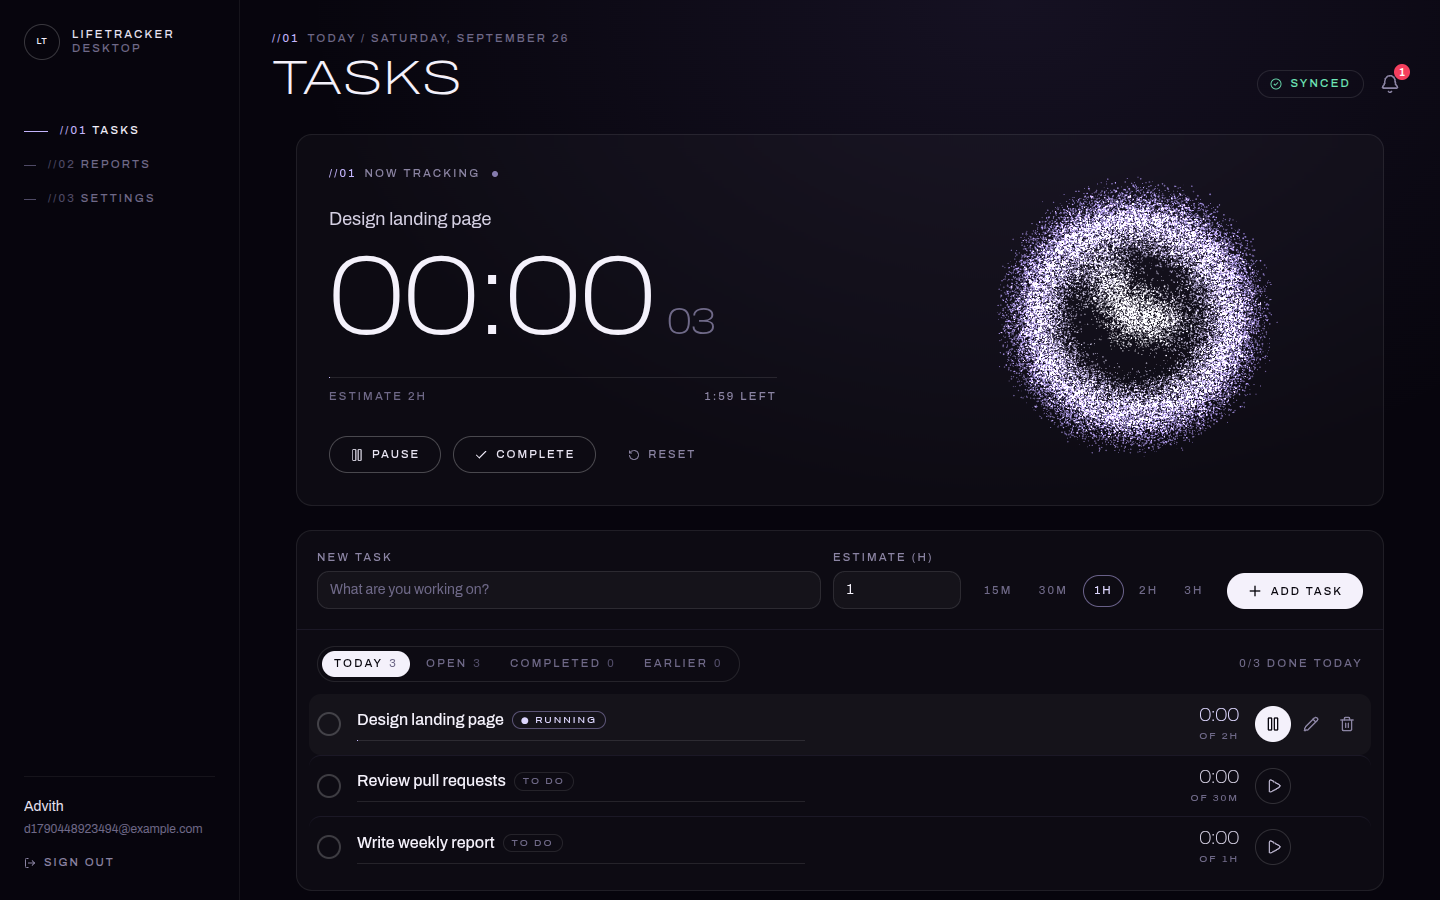
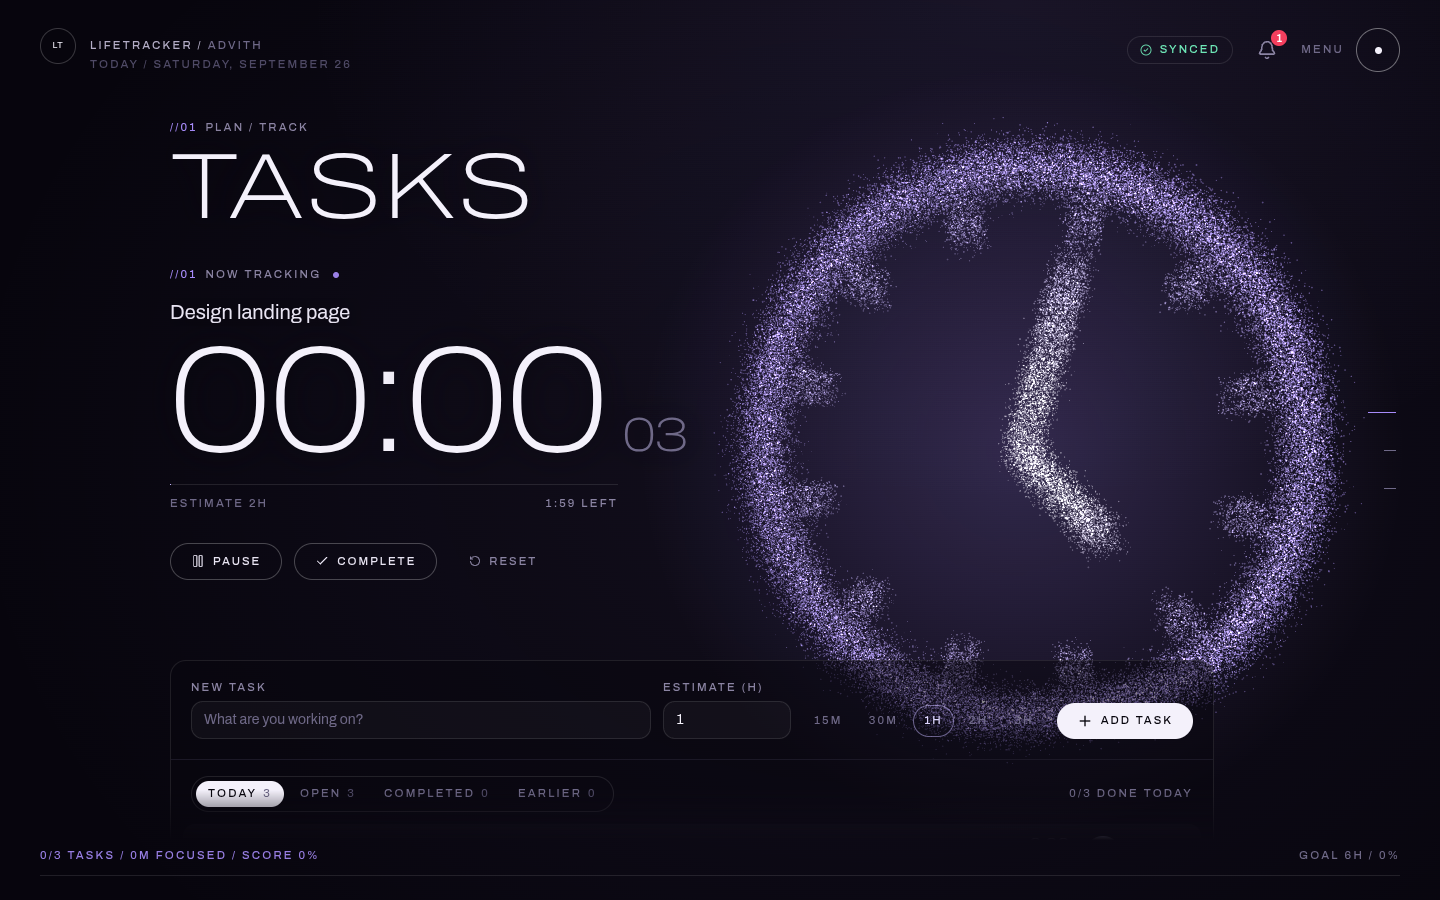
Give the phone app the same full-screen particle scene
A fixed orb sits behind every tab (clock/cube on Now, galaxy on Today,
linked orbs on Alerts) with the timer and tab titles floating underneath
as big thin type. Fix the Orb wrapper forcing position:relative over a
'fixed' class (it collapsed the canvas), refresh screenshots and docs.

Claude-Session: https://claude.ai/code/session_01A3nkMQNov7k3hGaWVPoKVi

diff --git a/packages/mobile/src/components/NowTab.js b/packages/mobile/src/components/NowTab.js
@@ -1,73 +1,64 @@
 import { useMemo, useState } from 'react';
 import { Pause, Play, Check, Plus } from 'lucide-react';
-import { timer, clockParts, formatHM, formatDuration, useNow, visibleTasks, sortTasks, timerOrbState } from '@lifetracker/shared';
+import { timer, clockParts, formatHM, formatDuration, useNow, visibleTasks, sortTasks, activeTimer } from '@lifetracker/shared';
 import { useStore } from '../config';
-import Orb from './Orb';
 
-function TimerCard({ task, nextUp, now }) {
+function TimerCard({ now }) {
+  const tasks = useStore((st) => st.tasks);
+  const today = useStore((st) => st.today);
   const { toggleTimer, toggleComplete, startTimer } = useStore.getState();
-  const running = timer.isRunning(task);
-  const elapsed = task ? timer.elapsedMs(task, now) : 0;
-  const est = task ? timer.estimateMs(task) : 0;
-  const remaining = est - elapsed;
-  const over = est > 0 && remaining < 0;
-  const warn = est > 0 && !over && remaining <= timer.warningThresholdMs(task);
-  const orbState = timerOrbState({ running, warn, over, hasTask: Boolean(task) });
-  const accent = over ? 'text-rose-300' : warn ? 'text-amber-300' : 'text-brand-300';
+  const { task, running, elapsed, est, remaining, over, warn, nextUp } = activeTimer(tasks, today, now);
   const { h, m, s } = clockParts(elapsed);
   const pct = est ? Math.min(1, elapsed / est) : 0;
+  const shadow = { textShadow: '0 0 24px rgba(7,5,13,.9)' };
 
+  // The particle clock is the full-screen <Scene>; this is the type floating under it.
   return (
-    <div className="card relative overflow-hidden">
-      <Orb state={orbState} className="absolute inset-x-0 top-0 h-72" />
-      <div className="relative px-5 pb-5 pt-5">
-        {!task ? (
-          <>
-            <p className="caps text-slate-400"><span className="mr-2 text-brand-300">{'//00'}</span>Timer / idle</p>
-            <h2 className="font-display mt-44 text-5xl leading-[0.9]">Ready<br />to focus</h2>
-            <p className="mt-3 text-sm text-slate-400">{nextUp ? <>Next up: <span className="text-slate-100">{nextUp.title}</span></> : 'Add a task below to get started.'}</p>
-            {nextUp && (
-              <button className="btn-primary mt-5 w-full py-4" onClick={() => startTimer(nextUp.id)}>
-                <Play className="h-4 w-4" /> Start
-              </button>
-            )}
-          </>
-        ) : (
-          <>
-            <div className="flex items-center justify-between">
-              <p className="caps text-slate-400"><span className={`mr-2 ${accent}`}>{'//'}{running ? '01' : '00'}</span>{running ? 'Now tracking' : 'Paused'}</p>
-              {running && <span className={`caps flex items-center gap-1.5 ${accent}`}><span className="h-1.5 w-1.5 animate-pulse rounded-full bg-current" /> Live</span>}
-            </div>
-            <div className="mt-44">
-              <div className="line-clamp-2 text-base text-slate-200">{task.title}</div>
-              <div className="font-display mt-1 flex items-baseline tabular">
-                <span className="text-7xl leading-none">{h}:{m}</span>
-                <span className="ml-2 text-2xl text-slate-500">{s}</span>
+    <section className="pt-[40vh]">
+      {!task ? (
+        <>
+          <p className="caps text-slate-400"><span className="mr-2 text-[var(--accent)]">{'//00'}</span>Timer / idle</p>
+          <h2 className="font-display mt-3 text-6xl leading-[0.9]" style={shadow}>Ready<br />to focus</h2>
+          <p className="mt-3 text-sm text-slate-400" style={shadow}>{nextUp ? <>Next up: <span className="text-slate-100">{nextUp.title}</span></> : 'Add a task below to get started.'}</p>
+          {nextUp && (
+            <button className="btn-primary mt-5 w-full py-4" onClick={() => startTimer(nextUp.id)}>
+              <Play className="h-4 w-4" /> Start
+            </button>
+          )}
+        </>
+      ) : (
+        <>
+          <div className="flex items-center justify-between">
+            <p className="caps text-slate-400"><span className="mr-2 text-[var(--accent)]">{running ? '//01' : '//00'}</span>{running ? 'Now tracking' : 'Paused'}</p>
+            {running && <span className="caps flex items-center gap-1.5 text-[var(--accent)]"><span className="h-1.5 w-1.5 animate-pulse rounded-full bg-current" /> Live</span>}
+          </div>
+          <div className="mt-3 line-clamp-2 text-base text-slate-100" style={shadow}>{task.title}</div>
+          <div className="font-display flex items-baseline tabular" style={shadow}>
+            <span className="text-[84px] leading-none">{h}:{m}</span>
+            <span className="ml-2 text-3xl text-slate-500">{s}</span>
+          </div>
+          {est > 0 && (
+            <>
+              <div className="mt-4 h-px bg-white/10">
+                <div className="h-full bg-[var(--accent)] transition-all" style={{ width: `${pct * 100}%` }} />
               </div>
-            </div>
-            {est > 0 && (
-              <>
-                <div className="mt-5 h-px bg-white/10">
-                  <div className={`h-full transition-all ${over ? 'bg-rose-400' : pct > 0.85 ? 'bg-amber-300' : 'bg-brand-300'}`} style={{ width: `${pct * 100}%` }} />
-                </div>
-                <div className="caps mt-2.5 flex justify-between tabular text-slate-500">
-                  <span>Estimate {formatDuration(est)}</span>
-                  <span className={over || warn ? accent : ''}>{over ? `${formatHM(-remaining)} over` : `${formatHM(remaining)} left`}</span>
-                </div>
-              </>
-            )}
-            <div className="mt-6 flex items-center gap-3">
-              <button onClick={() => toggleTimer(task.id)} className={`flex-1 py-4 ${running ? 'btn-soft' : 'btn-primary'}`}>
-                {running ? <><Pause className="h-4 w-4" /> Pause</> : <><Play className="h-4 w-4" /> Resume</>}
-              </button>
-              <button onClick={() => toggleComplete(task.id)} className="flex h-[52px] w-[52px] items-center justify-center rounded-full border border-emerald-300/40 text-emerald-300 active:scale-[.97]" aria-label="Complete task">
-                <Check className="h-5 w-5" />
-              </button>
-            </div>
-          </>
-        )}
-      </div>
-    </div>
+              <div className="caps mt-2.5 flex justify-between tabular text-slate-500">
+                <span>Estimate {formatDuration(est)}</span>
+                <span className={over || warn ? 'text-[var(--accent)]' : ''}>{over ? `${formatHM(-remaining)} over` : `${formatHM(remaining)} left`}</span>
+              </div>
+            </>
+          )}
+          <div className="mt-6 flex items-center gap-3">
+            <button onClick={() => toggleTimer(task.id)} className={`flex-1 py-4 ${running ? 'btn-soft bg-slate-950/40 backdrop-blur' : 'btn-primary'}`}>
+              {running ? <><Pause className="h-4 w-4" /> Pause</> : <><Play className="h-4 w-4" /> Resume</>}
+            </button>
+            <button onClick={() => toggleComplete(task.id)} className="flex h-[52px] w-[52px] items-center justify-center rounded-full border border-emerald-300/40 bg-slate-950/40 text-emerald-300 backdrop-blur active:scale-[.97]" aria-label="Complete task">
+              <Check className="h-5 w-5" />
+            </button>
+          </div>
+        </>
+      )}
+    </section>
   );
 }
 
@@ -148,23 +139,18 @@ export default function NowTab() {
   const tasks = useStore((s) => s.tasks);
   const today = useStore((s) => s.today);
 
-  const { active, list, nextUp } = useMemo(() => {
-    const all = visibleTasks(tasks);
-    const todays = sortTasks(all.filter((t) => t.date === today || timer.isRunning(t)));
-    const running = all.find(timer.isRunning);
-    const lastWorked = all
-      .filter((t) => !t.completed && t.sessions?.length)
-      .sort((a, b) => (b.sessions[b.sessions.length - 1]?.end || 0) - (a.sessions[a.sessions.length - 1]?.end || 0))[0];
-    return { active: running || lastWorked, list: todays, nextUp: todays.find((t) => !t.completed) };
-  }, [tasks, today]);
+  const list = useMemo(
+    () => sortTasks(visibleTasks(tasks).filter((t) => t.date === today || timer.isRunning(t))),
+    [tasks, today],
+  );
 
   const open = list.filter((t) => !t.completed);
   const done = list.filter((t) => t.completed);
 
   return (
     <div className="space-y-5">
-      <TimerCard task={active} nextUp={nextUp} now={now} />
-      <section>
+      <TimerCard now={now} />
+      <section className="pt-6">
         <div className="mb-2 flex items-baseline justify-between px-1">
           <h2 className="caps text-slate-300"><span className="mr-2 text-brand-300">{'//02'}</span>Active tasks</h2>
           <span className="caps tabular text-slate-500">{done.length}/{list.length} done</span>

diff --git a/packages/mobile/src/components/Scene.js b/packages/mobile/src/components/Scene.js
@@ -1,0 +1,44 @@
+import { useEffect, useRef, useState } from 'react';
+import { activeTimer, sceneOrbState, useNow } from '@lifetracker/shared';
+import { useStore } from '../config';
+import Orb from './Orb';
+
+const TAB_VIEW = { now: 'tasks', summary: 'reports', alerts: 'alerts' };
+
+function hexToTriplet(hex) {
+  const n = parseInt(hex.slice(1), 16);
+  return `${(n >> 16) & 255}, ${(n >> 8) & 255}, ${n & 255}`;
+}
+
+/** Full-screen particle body behind the phone app; follows the tab and the timer. */
+export default function Scene({ tab }) {
+  const now = useNow(1000);
+  const tasks = useStore((s) => s.tasks);
+  const today = useStore((s) => s.today);
+  const info = activeTimer(tasks, today, now);
+  const state = { ...sceneOrbState(TAB_VIEW[tab] || 'tasks', info), offset: [0, 0.5] };
+
+  const [burst, setBurst] = useState(0);
+  const lastDone = useRef(null);
+  const latestDone = Object.values(tasks).reduce((m, t) => (t?.completed && !t.deleted && (t.completedAt || 0) > m ? t.completedAt : m), 0);
+  useEffect(() => {
+    if (lastDone.current !== null && latestDone > lastDone.current) setBurst((n) => n + 1);
+    lastDone.current = latestDone;
+  }, [latestDone]);
+
+  useEffect(() => {
+    document.documentElement.style.setProperty('--accent', state.color);
+    document.documentElement.style.setProperty('--glow', hexToTriplet(state.color));
+  }, [state.color]);
+
+  return (
+    <>
+      <div
+        className="pointer-events-none fixed inset-0 z-0 transition-[background] duration-1000"
+        style={{ background: 'radial-gradient(60vmax 50vmax at 50% 24%, rgba(var(--glow), 0.22), transparent 70%)' }}
+        aria-hidden="true"
+      />
+      <Orb state={state} burstKey={burst} count={32000} scale={0.5} point={1.5} className="fixed inset-0 z-0" />
+    </>
+  );
+}

diff --git a/packages/mobile/src/App.js b/packages/mobile/src/App.js
@@ -8,6 +8,7 @@ import SummaryTab from './components/SummaryTab';
 import AlertsTab from './components/AlertsTab';
 import BottomNav from './components/BottomNav';
 import Toasts from './components/Toasts';
+import Scene from './components/Scene';
 import { applyUpdate } from './serviceWorkerRegistration';
 
 function Splash() {
@@ -42,10 +43,11 @@ function TrackedApp() {
   if (status === 'signedOut') return <Login />;
 
   return (
-    <div className="mx-auto flex h-full max-w-lg flex-col">
+    <div className="relative mx-auto flex h-full max-w-lg flex-col">
+      <Scene tab={tab} />
       <Header />
       <UpdateBanner />
-      <main className="flex-1 overflow-y-auto px-4 pb-28 pt-2">
+      <main className="relative z-10 flex-1 overflow-y-auto px-4 pb-28 pt-2">
         {tab === 'now' && <NowTab />}
         {tab === 'summary' && <SummaryTab />}
         {tab === 'alerts' && <AlertsTab />}

diff --git a/packages/mobile/src/components/Header.js b/packages/mobile/src/components/Header.js
@@ -56,10 +56,10 @@ export default function Header() {
   const standalone = window.matchMedia?.('(display-mode: standalone)').matches || navigator.standalone;
 
   return (
-    <header className="safe-top sticky top-0 z-30 bg-slate-950/80 px-4 pb-2 backdrop-blur-md">
+    <header className="safe-top sticky top-0 z-30 bg-gradient-to-b from-slate-950/90 to-transparent px-4 pb-3">
       <div className="flex items-center justify-between pt-3">
         <div className="min-w-0">
-          <div className="caps text-slate-500"><span className="mr-2 text-brand-300">{'//LT'}</span>{greeting}</div>
+          <div className="caps text-slate-500"><span className="mr-2 text-[var(--accent)]">{'//LT'}</span>{greeting}</div>
           <div className="font-display mt-1 truncate text-2xl leading-none">{name.split('@')[0]}</div>
         </div>
         <div className="flex items-center gap-3" ref={ref}>

diff --git a/packages/mobile/src/index.css b/packages/mobile/src/index.css
@@ -11,6 +11,10 @@
   html {
     color-scheme: dark;
   }
+  :root {
+    --accent: #a78bfa;
+    --glow: 167, 139, 250;
+  }
   body {
     @apply bg-slate-950 text-slate-50 antialiased;
     background-image: radial-gradient(90vmax 60vmax at 50% -10%, rgba(167, 139, 250, 0.12), transparent 70%);
@@ -37,7 +41,7 @@
     font-stretch: 112%;
   }
   .card {
-    @apply rounded-3xl border border-white/[0.08] bg-white/[0.03] backdrop-blur-sm;
+    @apply rounded-3xl border border-white/[0.09] bg-slate-950/70 backdrop-blur-md;
   }
   .btn {
     @apply inline-flex items-center justify-center gap-2 rounded-full px-5 py-3.5 text-[11px] font-medium uppercase tracking-[0.2em] transition active:scale-[.98] disabled:opacity-40;

diff --git a/packages/mobile/src/components/AlertsTab.js b/packages/mobile/src/components/AlertsTab.js
@@ -25,6 +25,10 @@ export default function AlertsTab() {
 
   return (
     <div className="space-y-3">
+      <header className="pb-3 pt-[33vh]">
+        <p className="caps text-slate-400"><span className="mr-2 text-[var(--accent)]">{'//03'}</span>Notifications / Sync</p>
+        <h1 className="font-display mt-2 text-6xl leading-none" style={{ textShadow: '0 0 24px rgba(7,5,13,.9)' }}>Alerts</h1>
+      </header>
       <div className="flex items-center justify-between px-1">
         <h2 className="caps text-slate-300"><span className="mr-2 text-brand-300">{'//01'}</span>Notifications</h2>
         {notifications.length > 0 && <button onClick={clear} className="caps text-brand-300">Clear all</button>}

diff --git a/packages/mobile/src/components/SummaryTab.js b/packages/mobile/src/components/SummaryTab.js
@@ -33,6 +33,10 @@ export default function SummaryTab() {
 
   return (
     <div className="space-y-4">
+      <header className="pb-2 pt-[33vh]">
+        <p className="caps text-slate-400"><span className="mr-2 text-[var(--accent)]">{'//02'}</span>Progress / Report</p>
+        <h1 className="font-display mt-2 text-6xl leading-none" style={{ textShadow: '0 0 24px rgba(7,5,13,.9)' }}>Today</h1>
+      </header>
       <div className="card flex items-center gap-5 p-5">
         <div className="relative shrink-0" style={{ width: size, height: size }}>
           <svg width={size} height={size} className="-rotate-90">

diff --git a/packages/desktop/src/components/ui.jsx b/packages/desktop/src/components/ui.jsx
@@ -29,7 +29,7 @@ export function Orb({ state, count = 45000, scale = 0.8, point = 2, className = 
     if (burstKey) orbRef.current?.burst();
   }, [burstKey, orbRef]);
   return (
-    <div className={`pointer-events-none ${className.includes('absolute') || className.includes('fixed') ? '' : 'relative'} ${className}`} aria-hidden="true">
+    <div className={`pointer-events-none ${/\b(absolute|fixed)\b/.test(className) ? '' : 'relative'} ${className}`} aria-hidden="true">
       <canvas ref={canvasRef} className="absolute inset-0 h-full w-full" />
       {!supported && (
         <div

diff --git a/packages/mobile/src/components/Orb.js b/packages/mobile/src/components/Orb.js
@@ -14,7 +14,7 @@ export default function Orb({ state, count = 22000, scale = 0.8, point = 1.6, cl
     if (burstKey) orbRef.current?.burst();
   }, [burstKey, orbRef]);
   return (
-    <div className={`pointer-events-none ${className.includes('absolute') ? '' : 'relative'} ${className}`} aria-hidden="true">
+    <div className={`pointer-events-none ${/\b(absolute|fixed)\b/.test(className) ? '' : 'relative'} ${className}`} aria-hidden="true">
       <canvas ref={canvasRef} className="absolute inset-0 h-full w-full" />
       {!supported && (
         <div

diff --git a/README.md b/README.md
@@ -15,7 +15,11 @@
 ## Design
 Every surface shares one visual language: a near-black violet canvas, **Archivo** at weight 100 and 125% width for display type, tiny spaced-out `//NN` labels, pill buttons and hairline rules. At its centre is a **WebGL particle body** (`packages/shared/src/orb.js`, no dependencies). Tens of thousands of additive-blended points morph between a sphere, a cube, a clock face, a spiral and two linked orbs, drift with a gentle swirl and scatter from the cursor. When WebGL isn't available it falls back to a CSS glow, and it respects `prefers-reduced-motion`.
 - **Landing page:** a scroll-driven story with one shape per section (plan, track, progress, sync, download). The download buttons link to the latest GitHub release assets.
-- **Apps:** the timer *is* the orb. It forms a spinning particle clock while a task is tracked, turns amber when about an hour is left and rose when over the estimate, and settles into a dim sphere when paused.
+- **Apps:** the whole app is one full-screen particle scene with the landing page's layout: brand top-left, sync, alerts and a menu button top-right, view ticks on the right edge, a full-screen menu, and a bottom rail showing today's stats that fills toward the daily goal. The orb follows what you are doing:
+  - **Tasks:** a spinning particle clock while a timer runs (amber when about an hour is left, rose when over the estimate) and a silver cube when idle.
+  - **Reports:** an amber galaxy.
+  - **Settings and alerts:** two linked orbs.
+  - Completing a task bursts it outward.
 
 ## Features
 
